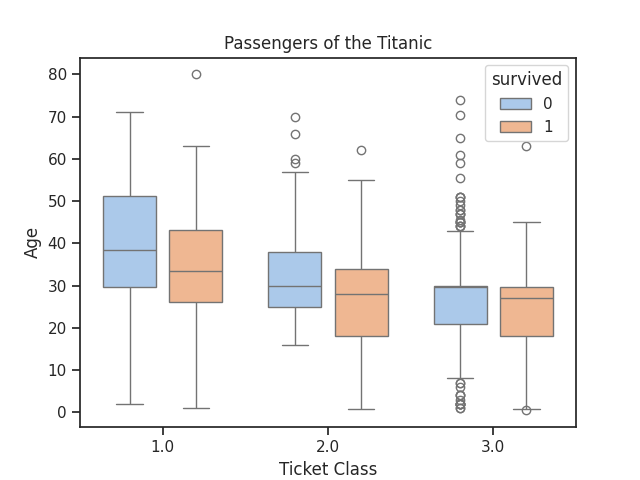
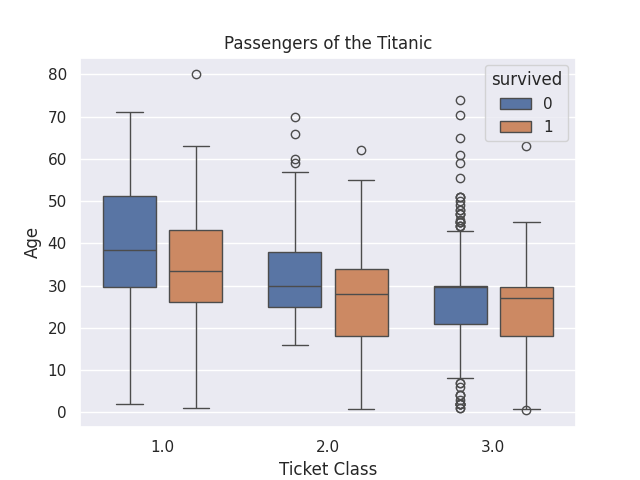
use default theme for boxplot

diff --git a/atividade_04/src/app/boxplot.py b/atividade_04/src/app/boxplot.py
@@ -17,7 +17,7 @@ import polars as pl
 
 def main():
     df = pl.scan_parquet("src/train.parquet")
-    sns.set_theme(style="ticks", palette="pastel")
+    sns.set_theme()
 
     titanic_passengers = df.select(
         pl.col("age").fill_null(pl.col("age").mean()),
